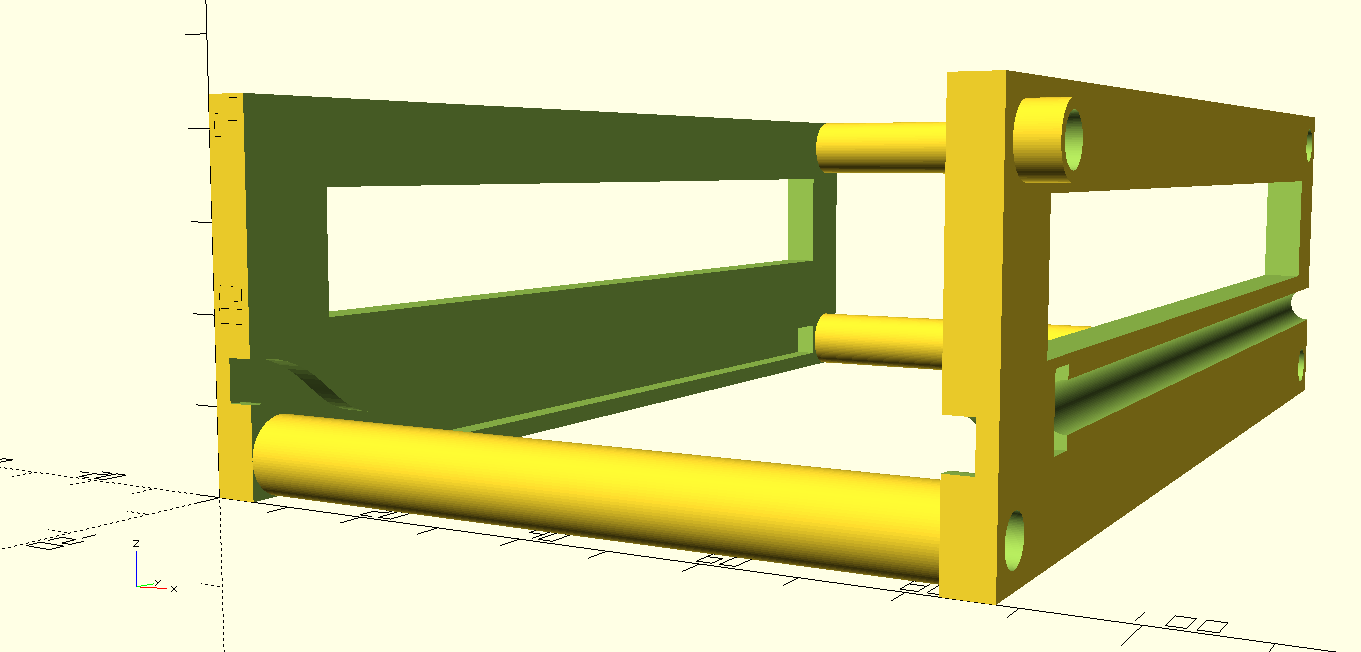
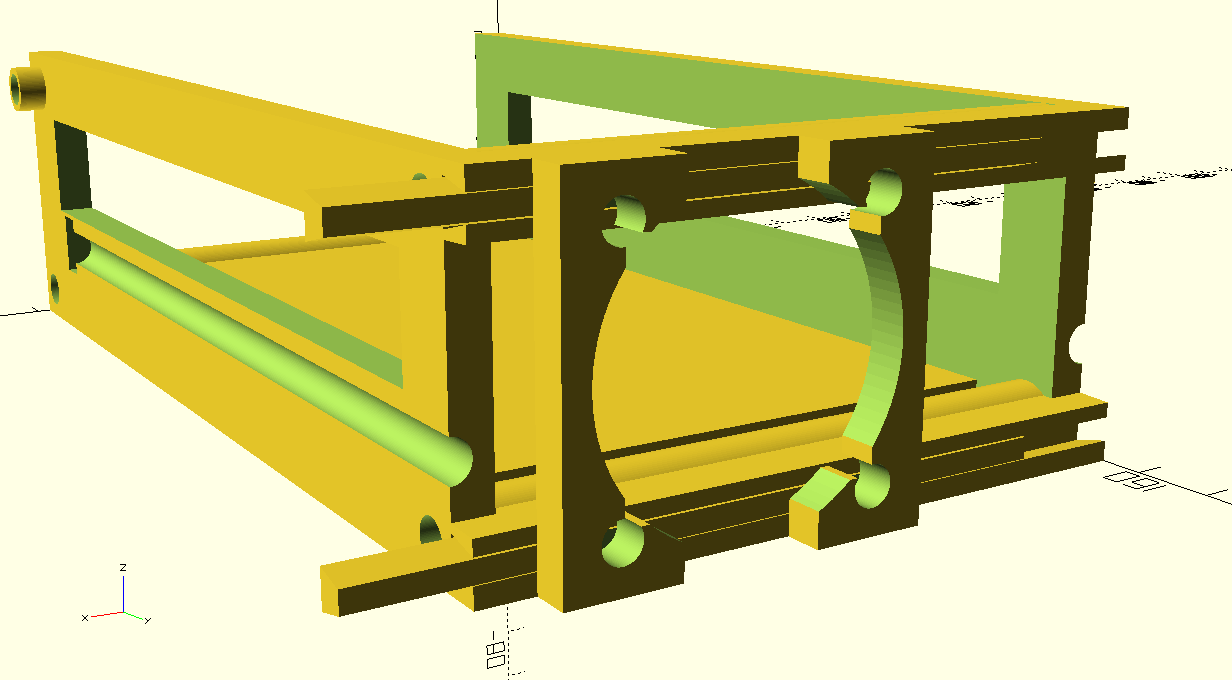
The sliding dovetails now are the whole module width long.

diff --git a/todo.md b/todo.md
@@ -8,8 +8,14 @@
 
 ##### Module
 
-- Add a dovetail at the rear so that we can slide in back modules (with power, network, whatever)
 - Add a fan module at the rear
+
+##### Fan Module
+
+- Add a nut to the reinforcement
+- Shift the holes so that the dovetails don't get drilled
+- Extend the male dovetails so that we have a complete width module
+- Design a rear for the fan module so that we get a complete module
 
 ## Done
 
@@ -19,6 +25,7 @@
 
 ##### Module
 
+- Add a dovetail at the rear so that we can slide in back modules (with power, network, whatever)
 - Add the pin track on the right side
 - Extract small parts as STL so that we can print and test them (sizes of the holes for the threaded rod, ear, the pin path and so on)
 - Add a recess in the module to host a M5 nut, and a hole so that we can add a threaded rod to the front modules row on each wall, on top&bottom if possible
